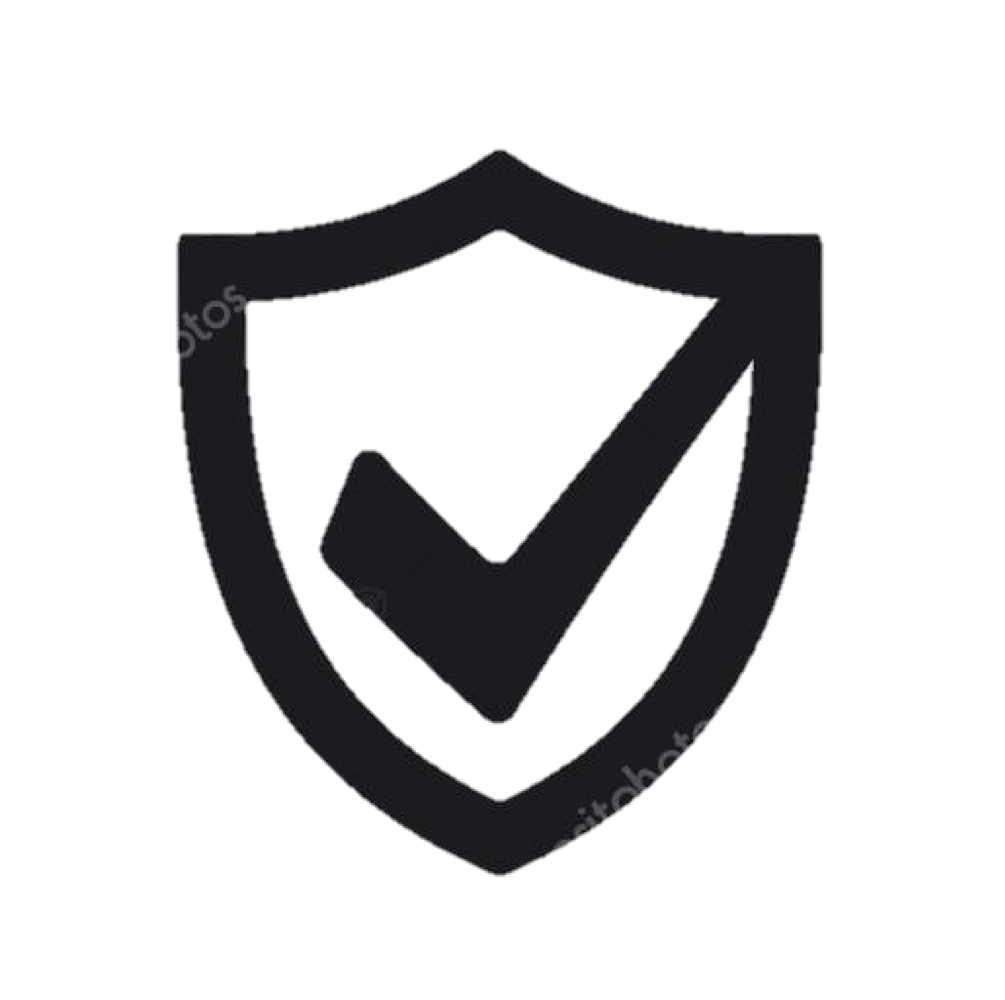
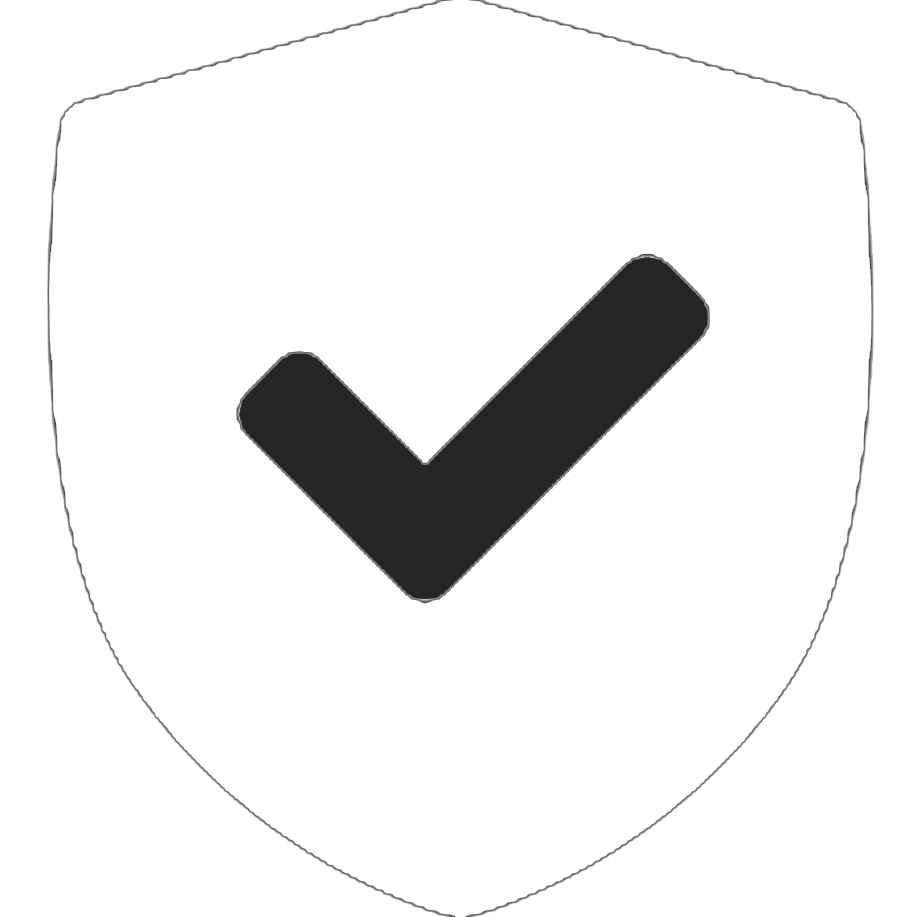
iconos y dangerLevels style

diff --git a/maps.html b/maps.html
@@ -137,94 +137,100 @@ auth.set_access_token(access_token, access_token_secret)
 -->
 
 
-        <div class="detailsCard" > 
-          <div class="twitterCard">
-          <a class="twitter-timeline" 
-            data-width="215" data-height="350" data-theme="dark" data-link-color="#2B7BB9"
-            href="https://twitter.com/StaySafeTec?ref_src=twsrc%5Etfw">Tweets by StaySafeTec</a> 
-            <script async src="https://platform.twitter.com/widgets.js" 
-            charset="utf-8"></script>
-          </div>
+<div class="detailsCard">
+  <div class="twitterCard">
+    <a class="twitter-timeline" data-width="215" data-height="350" data-theme="dark" data-link-color="#2B7BB9" href="https://twitter.com/StaySafeTec?ref_src=twsrc%5Etfw">Tweets by StaySafeTec</a>
+    <script async src="https://platform.twitter.com/widgets.js" charset="utf-8"></script>
+  </div>
 
-        <div class="botones">
-          <div class="ButtonPanel ButtonPanel-expand-lg fixed-bottom ButtonPanel-dark bg-dark">
-              <a class="ButtonPanel-brand1" href="#">
-                <img src="https://media.scmagazineuk.com/images/2014/07/09/twitter_626161.png" id="picTwitter" width="80" height="80" class="d-inline-block align-top"
-                  alt="">
-                <p id="textTwitter">Twitter Feed</p>
-              </a>
-              <a class="ButtonPanel-brand2" href="#">
-                <img src="https://i.pinimg.com/originals/c2/5c/73/c25c737ff2ec8a00db52edb49c1eccd0.png" id="picDanger" width="80" height="80"
-                  class="d-inline-block align-top" alt="">
-              <p id="textDanger">Danger Level</p>
-              </a>
-            </div>
-          </div>
-        </div>
+  <div class="detailsCard2 text-center text-white bg-dark mb-3">
 
-    <div class="detailsCard2 text-center text-white bg-dark mb-3">
-      <div class="card-body">
-        <h5 class="card-title">Dangerous Level: 1 - 10</h5>
-    
-    <div class="nombres">
-            <div id="juncoDeLaVega">Junco de la vega</div>
-            <div id="mapJuncoDeLaVega">Actual dangerous level: </div>
-          </div>
-        <br>
-        
-        <div class="nombres">
-              <div id="luisElizondo">Luis Elizondo</div>
-              <div id="pLuisElizondo">Actual dangerous level: </div>
-      
-            </div>
-        <br>
-        
-
-        <div class="nombres">
-              <div id="garciaRoel">Garcia Roel</div>
-              <div id="pGarciaRoel">Actual dangerous level: </div>
-        
-            </div>
-
-        <br>
-
-          <div class="nombres">
-                <div id="avenidaDelEstado">Avenida Del Estado</div>
-                <div id="pAvenidaDelEstado">Actual dangerous level: </div>
-            
-              </div>
-        <br>
-        
-        <a href="#" class="btn btn-primary">Califica</a>
-      </div>
-
-
+    <div class="card-body">
+      <h5 class="card-title">Danger Level: 1 - 10</h5>
     </div>
 
+      <div class="nombres text-center">
+        <div id="juncoDeLaVega">Junco de la vega</div>
+        <div id="mapJuncoDeLaVega">Actual danger level: </div>
+        <form class="poll" id="pollJuncoDeLaVega" name="juncoDeLaVega">
+          <input type="text" name="vJuncoDeLaVega" id="vJuncoDeLaVega" value="Rate from 1 to 10">
+          <input class="btn" id="bJuncoDeLaVega" type="button" value="SUBMIT">
+        </form>
+      </div>
+<br>    
+
+    <div class="nombres text-center">
+      <div id="luisElizondo">Luis Elizondo</div>
+      <div id="pLuisElizondo">Actual danger level: </div>
+      <form class="poll" id="pollLuisElizondo" name="luisElizondo">
+        <input type="text" name="vLuisElizondo" id="vLuisElizondo" value="Rate from 1 to 10">
+        <input class="btn" id="bLuisElizondo" type="button" value="SUBMIT">
+
+      </form>
+    </div>
+    <br>
+
+
+
+    <div class="nombres text-center">
+      <div id="garciaRoel">Garcia Roel</div>
+      <div id="pGarciaRoel">Actual danger level: </div>
+
+    </div>
+    <form class="poll" id="pollGarciaRoel" name="garciaRoel">
+      <input type="text" name="vGarciaRoel" id="vGarciaRoel" value="Rate from 1 to 10">
+      <input class="btn" id="bGarciaRoel" type="button" value="SUBMIT">
+
+    </form>
+  <br>
+
+
+  <div class="nombres text-center">
+    <div id="avenidaDelEstado">Avenida Del Estado</div>
+    <div id="pAvenidaDelEstado">Actual danger level: </div>
+
+  </div>
+  <form class="poll" id="pollAvenidaDelEstado" name="avenidaDelEstado">
+    <input type="text" name="vAvenidaDelEstado" id="vAvenidaDelEstado" value="Rate from 1 to 10">
+    <input class="btn" id="bAvenidaDelEstado" type="button" value="SUBMIT">
+
+  </form>
+</div>
+</div>
+
+
+
+
+
+<a href="#" class="btn btn-primary">Grade</a>
+</div>
 
 
 </div>
 
-  </section>
 
-  <script src="https://cdnjs.cloudflare.com/ajax/libs/jquery/3.2.1/jquery.min.js"></script>
-  <script src="test.js"></script>
+</div>
+</div>
 
-  </div>
+</section>
+
+<script src="https://cdnjs.cloudflare.com/ajax/libs/jquery/3.2.1/jquery.min.js"></script>
+<script src="test.js"></script>
+
+</div>
 
 
 
 
   <div class="ButtonPanel ButtonPanel-expand-lg fixed-bottom ButtonPanel-dark bg-dark">
     <a class="ButtonPanel-brand" href="#">
-      <img src="https://media.scmagazineuk.com/images/2014/07/09/twitter_626161.png" id="picTwitter" width="80" height="80" class="d-inline-block align-top"
+      <img src="assets/images/newsIcon.png" id="picTwitter" width="80" height="80" class="d-inline-block align-top"
         alt="">
       <p id="textTwitter">Twitter Feed</p>
     </a>
     <a class="ButtonPanel-brand" href="#">
-      <img src="https://i.pinimg.com/originals/c2/5c/73/c25c737ff2ec8a00db52edb49c1eccd0.png" id="picTwitter" width="80" height="80"
-        class="d-inline-block align-top" alt="">
-      <p id="textTwitter">Twitter Feed</p>
+      <img src="assets/images/securityIcon.png" id="picDanger" width="80" height="80" class="d-inline-block align-top" alt="">
+      <p id="textTwitter">Danger Levels</p>
     </a>
   </div>
 

diff --git a/assets/style.css b/assets/style.css
@@ -2,6 +2,7 @@
     display:flex;
     align-items:center;
     justify-content:center;
+    
     }
 
 .detailsCard2 {
@@ -27,8 +28,9 @@
 
     #textTwitter {
    
-        text-align: left;
-        margin-left:40px;
+        text-align: center;
+     
+      margin-right: 5px;
     
     }
     
@@ -39,7 +41,7 @@
     
     }
     
-    #picTwitter {
+    /* #picTwitter {
         margin-left:40px;
     }
     
@@ -47,8 +49,11 @@
         padding-left:30px;
     
     
-    }
+    } */
     
+   
+    
+  
     .ButtonPanel-brand1 {
         color: white;
         line-height: 15px;
@@ -69,3 +74,68 @@
         max-height: 10px;
     }
 
+    .detailsCard{
+        display: none;
+    }
+
+    .detailsCard2{
+        display: none;
+    }
+
+    .btn {
+        background: blue;
+        color: white;
+        width: 60px;
+        height: 30px;
+        font-size: 10px;
+        text-align: center;
+    }
+
+    .card-body {
+        background: gray;
+        padding-top: 5px;
+        padding-bottom: 5px;
+    }
+
+    #juncoDeLaVega {
+        text-decoration: underline;
+    }
+
+    #vJuncoDeLaVega {
+    width: 106px;
+    height: 26px;
+    font-size:11px;
+    }
+
+
+    #luisElizondo {
+        text-decoration: underline;
+    }
+
+    #vLuisElizondo {
+    width: 106px;
+    height: 26px;
+    font-size:11px;
+    }
+
+    #garciaRoel {
+        text-decoration: underline;
+    }
+
+    #vGarciaRoel {
+        width: 106px;
+        height: 26px;
+        font-size:11px;
+    }
+
+    #avenidaDelEstado {
+        text-decoration: underline;
+    }
+
+    #vAvenidaDelEstado {
+        width: 106px;
+        height: 26px;
+        font-size:11px;
+    }
+
+    @media (min-width:320px) { /* smartphones, iPhone, portrait 480x320 phones */ }
